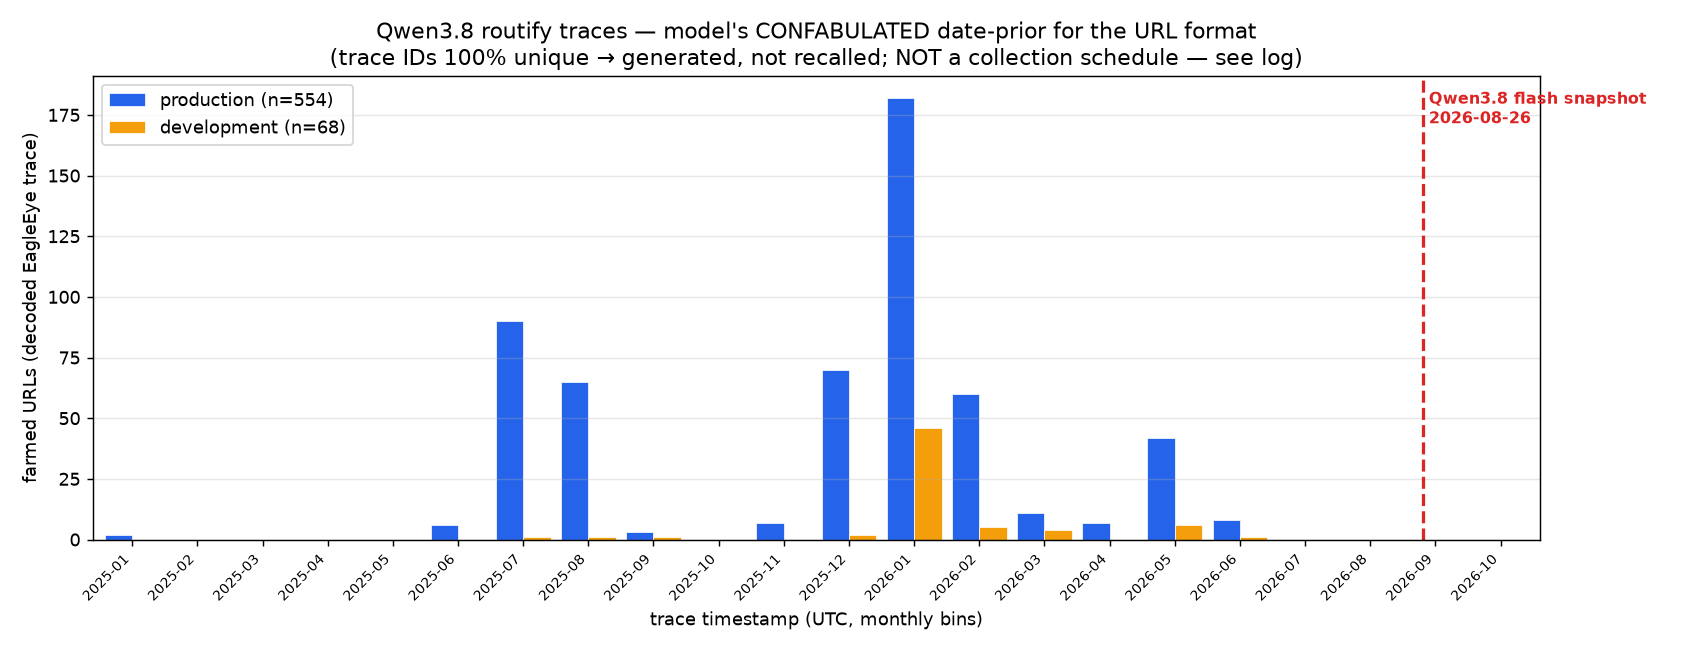
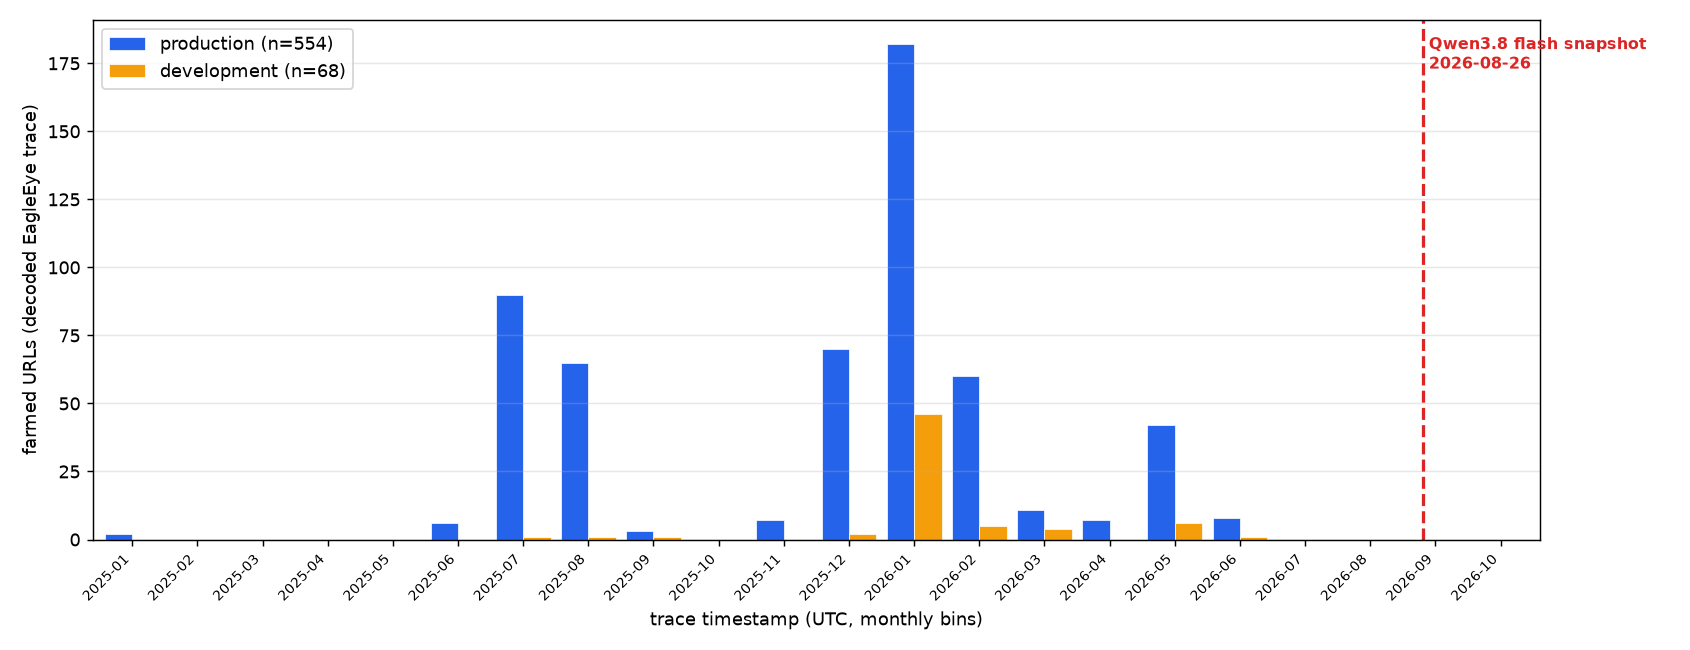
post: chart without title, drop development bucket from the likely cause

diff --git a/index.html b/index.html
@@ -111,9 +111,9 @@
     </ul>
   </div>
 
-  <p>One likely reason for this behavior is that agents running Qwen3.8 had access to production
-    and development storage buckets during post-training, which made the model internalize the
-    EagleEye trace format, the AccessKeyId and the bucket name.</p>
+  <p>One likely reason for this behavior is that agents running Qwen3.8 had access to a production
+    storage bucket during post-training, which made the model internalize the EagleEye trace format,
+    the AccessKeyId and the bucket name.</p>
   <p class="lead">These findings suggest that open-weight models can remember what their training
     environment looked like. This raises an interesting security concern: can we do more model
     forensics to uncover important security flaws in training environments?</p>
@@ -166,7 +166,7 @@
     signature over both. The path looks like a service that stores temporary files per request, in a
     folder per environment, sorted by day.</p>
 
-  <h3>Two environments: production and development</h3>
+  <h3>Is there a development environment too?</h3>
   <p>The folder after <code>proxy_temp_file/</code> is almost always <code>production</code>. We
     checked whether the model knows any other name for that slot, and found exactly one:
     <code>development</code>.</p>
